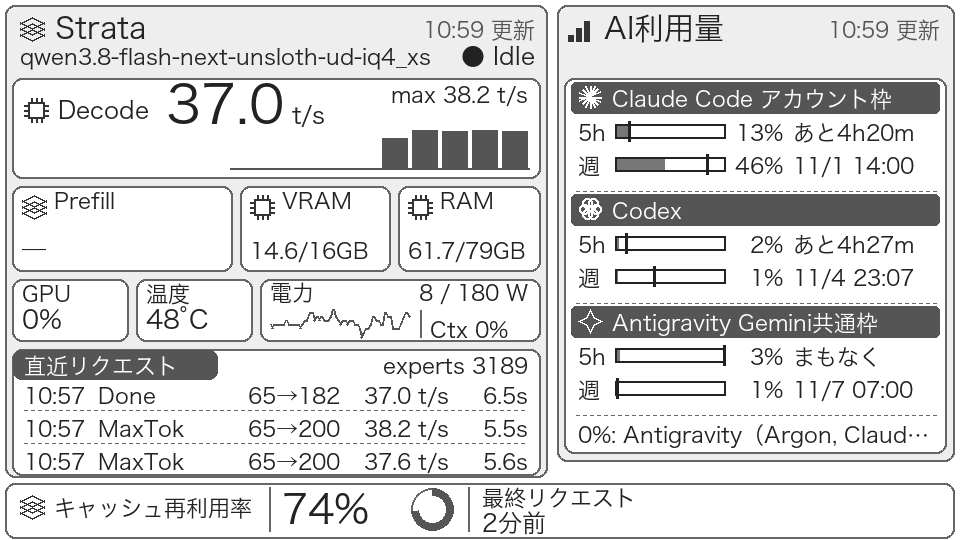
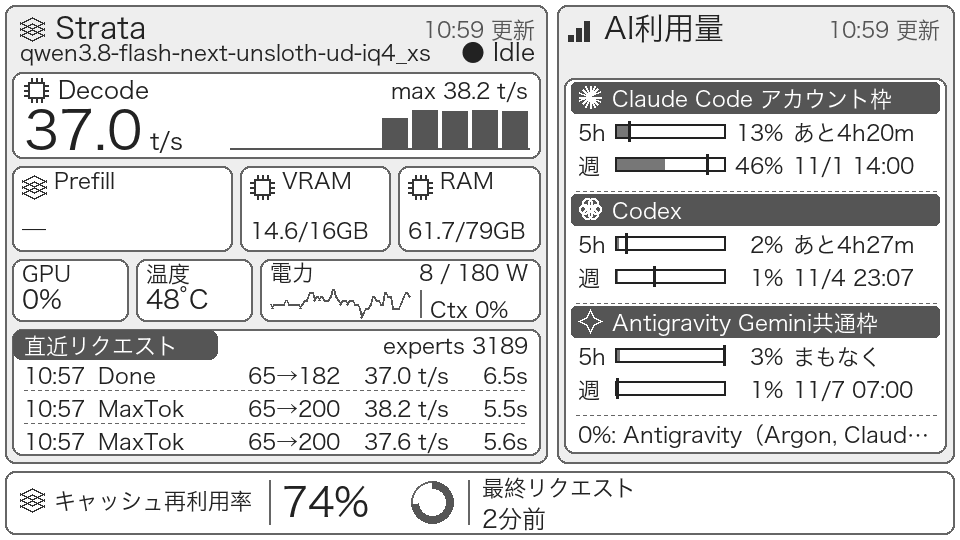
Align outer frames and restore footer and card padding

Changed region(s): [[0.0, 0.0593, 1.0, 1.0]]

diff --git a/tests/test_render.py b/tests/test_render.py
@@ -27,7 +27,7 @@ def test_png_format_and_levels(settings, drawing_font, strata, usage):
     assert set(image.tobytes()) <= set(range(0, 256, 17))
     assert 0 not in image.tobytes()
     assert image.getpixel((547, 300)) == 102
-    assert image.getpixel((100, 483)) == 102
+    assert image.getpixel((100, 471)) == 102
 
 
 def test_no_data_and_offline(settings, drawing_font, strata):
@@ -156,7 +156,7 @@ def test_fixed_request_columns_and_single_summary(settings, drawing_font, strata
     cells, summaries = [], []
     original, text_original = Canvas.right, Canvas.text
     def right(self, x, y, value, **kwargs):
-        if y in (404, 437, 470):
+        if y in (384, 417, 450):
             cells.append((x, y, value))
         return original(self, x, y, value, **kwargs)
     def text(self, x, y, value, **kwargs):
@@ -168,7 +168,7 @@ def test_fixed_request_columns_and_single_summary(settings, drawing_font, strata
     render_png(snapshot(settings, now=1793411985, strata=strata, usage=usage), settings)
     assert len(summaries) == 1
     assert "\n" not in summaries[0][2]
-    for y in (404, 437, 470):
+    for y in (384, 417, 450):
         assert [x for x, baseline, _ in cells if baseline == y] == [340, 449, 528]
     c = Canvas(settings)
     end = c.right(318, 50, "65→182", width=134)
@@ -181,7 +181,7 @@ def test_footer_only_received_values(settings, drawing_font, telemetry, expected
     values = []
     original = Canvas.text
     def record(self, x, y, value, **kwargs):
-        if x == 714 and y == 518:
+        if x == 714 and y == 511:
             values.append(value)
         return original(self, x, y, value, **kwargs)
     monkeypatch.setattr(Canvas, "text", record)
@@ -197,11 +197,11 @@ def test_prefill_cached_date_and_small_missing(settings, drawing_font, strata, m
         return original(self, x, y, value, size=size, **kwargs)
     monkeypatch.setattr(Canvas, "text", record)
     render_png(snapshot(settings, now=1793411985, strata=strata), settings)
-    assert ("—", 259, 24) in calls
+    assert ("—", 239, 24) in calls
     calls.clear()
     render_png(snapshot(settings, now=1793411985, strata=strata,
                         last_prefill={"value": 131, "at": 1793142000}), settings)
-    assert ("131 t/s（10/28）", 259, 22) in calls
+    assert ("131 t/s（10/28）", 239, 22) in calls
     # A current qualifying request overrides the stored fallback.
     strata["requests"] = [{"prompt_tokens": 1000, "reused": 0, "prompt_ms": 1000}]
     view = snapshot(settings, now=1793411985, strata=strata, last_prefill={"value": 131, "at": 1793142000})
@@ -290,7 +290,7 @@ def test_cards_keep_three_usage_groups_and_decode_chart(settings, drawing_font, 
     render_png(snapshot(settings, now=1793411985, strata=strata, usage=usage), settings)
     assert any("Antigravity Gemini" in value for value in texts)
     assert not any(value.startswith("ほか") for value in texts)
-    assert charts == [(230, 130, 300, 40)]
+    assert charts == [(230, 110, 300, 40)]
 
 
 def test_long_and_missing_content_stays_inside_canvas(settings, drawing_font, strata, usage, monkeypatch):
@@ -386,7 +386,7 @@ def test_large_memory_capacity_and_unit_remain_complete(settings, drawing_font, 
         strata["hardware"][prefix + "_total"] = total * 2**30
     render_png(snapshot(settings, now=1793411985, strata=strata), settings)
     for label, left in (("VRAM", 240), ("RAM", 398)):
-        cells = [value for (x, y), value in texts if x == left + 10 and 186 < y < 271]
+        cells = [value for (x, y), value in texts if x == left + 10 and 166 < y < 251]
         assert (f"{used}/{total}GB" in cells or
                 label + " GB" in cells and (f"{used}/{total}" in cells or
                                            str(used) in cells and "/" + str(total) in cells))
@@ -400,7 +400,7 @@ def test_power_chart_clears_card_border(settings, drawing_font, strata, monkeypa
         return original(self, x, y, samples, width=width, height=height)
     monkeypatch.setattr(Canvas, "spark", spark)
     render_png(snapshot(settings, now=1793411985, strata=strata), settings)
-    assert charts and all(y + height <= 339 for y, height in charts)
+    assert charts and all(y + height <= 319 for y, height in charts)
 
 
 def test_two_line_memory_keeps_readable_baseline_spacing(settings, drawing_font, monkeypatch):
@@ -411,10 +411,10 @@ def test_two_line_memory_keeps_readable_baseline_spacing(settings, drawing_font,
         rows.append((y, size, str(value)))
         return original(self, x, y, value, size=size, **kwargs)
     monkeypatch.setattr(Canvas, "text", text)
-    memory_metric(Canvas(settings), (398, 186, 540, 271), "RAM", "12345.6 / 65536 GB")
+    memory_metric(Canvas(settings), (398, 166, 540, 251), "RAM", "12345.6 / 65536 GB")
     assert [value for _, _, value in rows] == ["RAM GB", "12345.6", "/65536"]
     assert all(b[0] - a[0] >= max(a[1], b[1]) * 1.3 for a, b in zip(rows, rows[1:]))
-    assert rows[-1][0] <= 264
+    assert rows[-1][0] <= 244
 
 
 def test_memory_icons_are_consistent_for_mixed_capacities(settings, drawing_font, strata, monkeypatch):
@@ -440,7 +440,36 @@ def test_card_rows_keep_eight_pixel_gaps(settings, drawing_font, strata, monkeyp
         return original(canvas, box, **kwargs)
     monkeypatch.setattr(renderer, "panel", panel)
     render_png(snapshot(settings, now=1793411985, strata=strata), settings)
-    rows = [(12, 78, 540, 178), (12, 186, 232, 271),
-            (12, 279, 128, 341), (12, 349, 540, 475), (5, 483, 954, 538)]
+    rows = [(12, 72, 540, 158), (12, 166, 232, 251),
+            (12, 259, 128, 321), (12, 329, 540, 455)]
     assert all(box in boxes for box in rows)
     assert all(b[1] - a[3] == 8 for a, b in zip(rows, rows[1:]))
+
+
+def test_outer_frames_and_footer_clearance(settings, drawing_font, strata, monkeypatch):
+    import paperhub.render as renderer
+    boxes, footer_rows = [], []
+    original_panel, original_text = renderer.panel, Canvas.text
+    def panel(canvas, box, **kwargs):
+        boxes.append(box)
+        return original_panel(canvas, box, **kwargs)
+    def text(self, x, y, value, size=22, **kwargs):
+        if x == 482:
+            footer_rows.append((y, size))
+        return original_text(self, x, y, value, size=size, **kwargs)
+    monkeypatch.setattr(renderer, "panel", panel)
+    monkeypatch.setattr(Canvas, "text", text)
+    render_png(snapshot(settings, now=1793411985, strata=strata), settings)
+    left, right = boxes[:2]
+    assert left[3] == right[3] == 463
+    assert (12, 329, 540, 455) in boxes
+    assert left[3] - 455 == 8  # Card-to-outer-frame inset.
+    footer = (5, 471, 954, 534)
+    assert footer in boxes
+    assert footer[1] - left[3] == 8
+    assert 539 - footer[3] == 5  # Same margin as the sides.
+    assert footer_rows[1][0] - footer_rows[0][0] >= max(size for _, size in footer_rows) * 1.3
+    for baseline, size in footer_rows:
+        _, top, _, bottom = Canvas(settings).font(size).getbbox("3時間前", anchor="ls")
+        assert baseline + top >= footer[1] + 4
+        assert baseline + bottom <= footer[3] - 3

diff --git a/paperhub/render.py b/paperhub/render.py
@@ -214,7 +214,7 @@ def draw_strata(c, view):
     if s:
         state = "● " + s["state"]
         state_width = min(250, c.draw.textlength(state, font=c.font(24)))
-        c.right(535, 65, state, size=24, width=250)
+        c.right(535, 61, state, size=24, width=250)
     metadata(c, view, "strata", 535, 38, 330)
     if view["status"]["strata"]:
         c.text(24, 121, view["status"]["strata"], width=500)
@@ -224,17 +224,17 @@ def draw_strata(c, view):
     model = s["model"]
     if s["state"].lower() not in ("idle", "—"):
         model = s["phase"] + " " + s["live_tok_s"] + " t/s · " + model
-    c.text(20, 65, model, width=535 - state_width - 32)
-    panel(c, (12, 78, 540, 178))
-    icon(c, "chip", 24, 98)
-    c.text(58, 119, "Decode", size=24, bold=True)
-    end = c.text(166, 124, s["decode_tok_s"], size=54, bold=True, width=160)
-    c.text(end, 124, " t/s", size=24, width=58)
+    c.text(20, 61, model, width=535 - state_width - 32)
+    panel(c, (12, 72, 540, 158))
+    icon(c, "chip", 24, 78)
+    c.text(58, 99, "Decode", size=24, bold=True)
+    end = c.text(24, 150, s["decode_tok_s"], size=54, bold=True, width=160)
+    c.text(end, 150, " t/s", size=24, width=58)
     samples = s["decode_history"]
     maximum = spark_summary(samples)
     maximum = "max " + maximum + (" t/s" if maximum not in ("idle", "—") else "")
-    c.right(528, 103, maximum, width=190)
-    c.bars(230, 130, samples, width=300, height=40)
+    c.right(528, 99, maximum, width=190)
+    c.bars(230, 110, samples, width=300, height=40)
 
     # Prefill gets a wider card so a persisted date remains readable at 22px.
     prefill = s["prefill_tok_s"]
@@ -242,29 +242,29 @@ def draw_strata(c, view):
         prefill += " t/s"
         if s.get("prefill_cached"):
             prefill += "（" + s["prefill_date"] + "）"
-    metric(c, (12, 186, 232, 271), "Prefill", prefill, kind="layers",
+    metric(c, (12, 166, 232, 251), "Prefill", prefill, kind="layers",
            size=22 if s.get("prefill_cached") else 24)
-    memories = (((240, 186, 390, 271), "VRAM", s["vram"]),
-                ((398, 186, 540, 271), "RAM", s["ram"]))
+    memories = (((240, 166, 390, 251), "VRAM", s["vram"]),
+                ((398, 166, 540, 251), "RAM", s["ram"]))
     # Keep both headings consistent when either card needs GB in its heading.
     show_chips = all(fits_memory(c, box, compact_memory(value)) for box, _, value in memories)
     for box, label, value in memories:
         memory_metric(c, box, label, value, kind="chip" if show_chips else None)
-    metric(c, (12, 279, 128, 341), "GPU", s["gpu_util"] + "%", size=26)
-    metric(c, (136, 279, 252, 341), "温度", s["gpu_temp"] + "°C", size=26)
-    panel(c, (260, 279, 540, 341))
-    c.text(270, 301, "電力", bold=True)
-    c.right(528, 301, s["power"], width=198)
-    c.spark(270, 307, [row.get("gpu_power") for row in view["history"]], width=140, height=32)
-    c.draw.line((420, 310, 420, 337), fill=102, width=2)
-    c.text(430, 338, "Ctx " + s["context"].split(" ", 1)[0], width=100)
+    metric(c, (12, 259, 128, 321), "GPU", s["gpu_util"] + "%", size=26)
+    metric(c, (136, 259, 252, 321), "温度", s["gpu_temp"] + "°C", size=26)
+    panel(c, (260, 259, 540, 321))
+    c.text(270, 281, "電力", bold=True)
+    c.right(528, 281, s["power"], width=198)
+    c.spark(270, 287, [row.get("gpu_power") for row in view["history"]], width=140, height=32)
+    c.draw.line((420, 290, 420, 317), fill=102, width=2)
+    c.text(430, 318, "Ctx " + s["context"].split(" ", 1)[0], width=100)
 
-    panel(c, (12, 349, 540, 475))
-    c.draw.rounded_rectangle((13, 350, 217, 379), radius=8, fill=85)
-    c.text(24, 374, "直近リクエスト", bold=True, fill=255)
-    c.right(528, 374, "experts " + s["experts_cached"], width=285)
+    panel(c, (12, 329, 540, 455))
+    c.draw.rounded_rectangle((13, 330, 217, 359), radius=8, fill=85)
+    c.text(24, 354, "直近リクエスト", bold=True, fill=255)
+    c.right(528, 354, "experts " + s["experts_cached"], width=285)
     for i, request in enumerate(s["recent_requests"][:3]):
-        y = 404 + i * 33
+        y = 384 + i * 33
         c.text(24, y, request["time"][-5:], width=64)
         c.text(98, y, request["status"], width=88)
         c.right(340, y, request["tokens"].replace(" → ", "→"), width=144)
@@ -324,21 +324,21 @@ def draw_usage(c, view):
 
 
 def draw_footer(c, view):
-    panel(c, (5, 483, 954, 538), fill=255)
+    panel(c, (5, 471, 954, 534), fill=255)
     s = view["strata"]
-    icon(c, "layers", 20, 495)
-    c.text(54, 516, "キャッシュ再利用率", bold=True, width=215)
-    c.draw.line((269, 487, 269, 531), fill=102, width=2)
+    icon(c, "layers", 20, 488)
+    c.text(54, 509, "キャッシュ再利用率", bold=True, width=215)
+    c.draw.line((269, 480, 269, 524), fill=102, width=2)
     value = s["cache_reuse"] if s else "—"
-    c.text(282, 524, value, size=40, bold=True, width=120)
+    c.text(282, 517, value, size=40, bold=True, width=120)
     ratio = number(s.get("cache_reuse_ratio")) if s else None
     percent = ratio * 100 if ratio is not None else None
-    c.draw.ellipse((411, 488, 453, 530), outline=102, width=2)
+    c.draw.ellipse((411, 481, 453, 523), outline=102, width=2)
     if percent is not None:
-        c.draw.arc((411, 488, 453, 530), start=-90, end=-90 + max(0, min(100, percent)) * 3.6, fill=85, width=8)
-    c.draw.line((468, 487, 468, 531), fill=102, width=2)
-    c.text(482, 506, "最終リクエスト", width=210)
-    c.text(482, 532, s["last_request"] if s else "—", size=24, width=210)
+        c.draw.arc((411, 481, 453, 523), start=-90, end=-90 + max(0, min(100, percent)) * 3.6, fill=85, width=8)
+    c.draw.line((468, 480, 468, 524), fill=102, width=2)
+    c.text(482, 496, "最終リクエスト", width=210)
+    c.text(482, 528, s["last_request"] if s else "—", size=24, width=210)
     telemetry = view["telemetry"]
     parts = []
     if number(telemetry.get("bat")) is not None:
@@ -346,14 +346,14 @@ def draw_footer(c, view):
     if number(telemetry.get("rssi")) is not None:
         parts.append(f"{telemetry['rssi']}dBm")
     if parts:
-        c.draw.line((700, 487, 700, 531), fill=102, width=2)
-        c.text(714, 518, "  ".join(parts), width=230)
+        c.draw.line((700, 480, 700, 524), fill=102, width=2)
+        c.text(714, 511, "  ".join(parts), width=230)
 
 
 def render_png(view, settings):
     c = Canvas(settings)
-    panel(c, (5, 5, 547, 477), fill=238)
-    panel(c, (557, 5, 954, 461), fill=238)
+    panel(c, (5, 5, 547, 463), fill=238)
+    panel(c, (557, 5, 954, 463), fill=238)
     draw_strata(c, view)
     draw_usage(c, view)
     draw_footer(c, view)

diff --git a/docs/design.md b/docs/design.md
@@ -14,7 +14,8 @@
 - オフライン判定は最終取得成功から600秒以上。一度も成功していない場合はデータなしとして、オフライン判定をfalseにします。
 
 - 画面は960×540のカード形式で、左約550px・右約400pxです。本文22px・リクエスト行高33px・decode棒グラフ300×40pxを使い、Decodeは54px、Prefillは通常24px・履歴値22pxです。状態は最大250pxを確保し、実際の文字幅からモデル名の表示幅を決めます。Generatingは24pxで省略せず、250pxを超える状態や長いモデル名は末尾を省略します。
-- VRAM・RAMは22pxで容量と単位を表示します。容量とGBが1行に収まらない場合は、GBを見出しに移して数値幅を確保します。それでも長い容量は使用量と総量の2行にし、見出しを含むベースライン間隔を29pxにします。上段カードは高さ85pxとし、上下の段との間隔は8pxを確保します。下段とフッターも同じ8px間隔で配置し、フォントを縮小せず値を保持します。片方でもGBを見出しへ移す場合は、容量と単位の幅を確保するため両メモリカードのチップアイコンを省き、見た目を揃えます。アイコン表示とメモリ描画は共通の文字幅判定を使います。
+- Decodeは数値を左、300×40pxの棒グラフを右に配置します。段間隔と外枠内の下余白は8px、左右の外枠下端は463pxです。フッターは外枠から8px空けた471〜534pxに置き、画面下に左右と同じ5pxを残します。最終リクエストの2行は32px間隔で、漢字の下にも余白を確保します。
+- VRAM・RAMは22pxで容量と単位を表示します。容量とGBが1行に収まらない場合は、GBを見出しに移して数値幅を確保します。それでも長い容量は使用量と総量の2行にし、見出しを含むベースライン間隔を29pxにします。上段カードは高さ85pxとし、上下の段との間隔は8pxを確保します。フォントを縮小せず値を保持します。片方でもGBを見出しへ移す場合は、容量と単位の幅を確保するため両メモリカードのチップアイコンを省き、見た目を揃えます。アイコン表示とメモリ描画は共通の文字幅判定を使います。
 - キャッシュ再利用率は実際の計算値を数値とリングで示します。欠落時は「—」と輪郭のみです。端末の電池・RSSIは受信まで非表示とし、受信した数値を表示します。Wi-Fi接続状態を推測するアイコンは置きません。
 - アイコンは描画コード内の独自の単純な図形です。ブランドロゴや外部画像は同梱しません。長いモデル名・見出しは22px以上を維持して末尾を省略します。右側は3つの2-windowグループを表示できる間隔とし、幅110pxのバーを使います。溢れるgroup数は0%集約と同じ末尾行に併記します。
 - decodeは直近10件を古い順から描き、nullは空欄、全0ならidle、全nullなら—です。電力は140×32px・線幅2pxで、描画領域をカード内側に置き、下枠との間に余白を設けます。live t/s・GPU使用率のグラフは表示しません。
